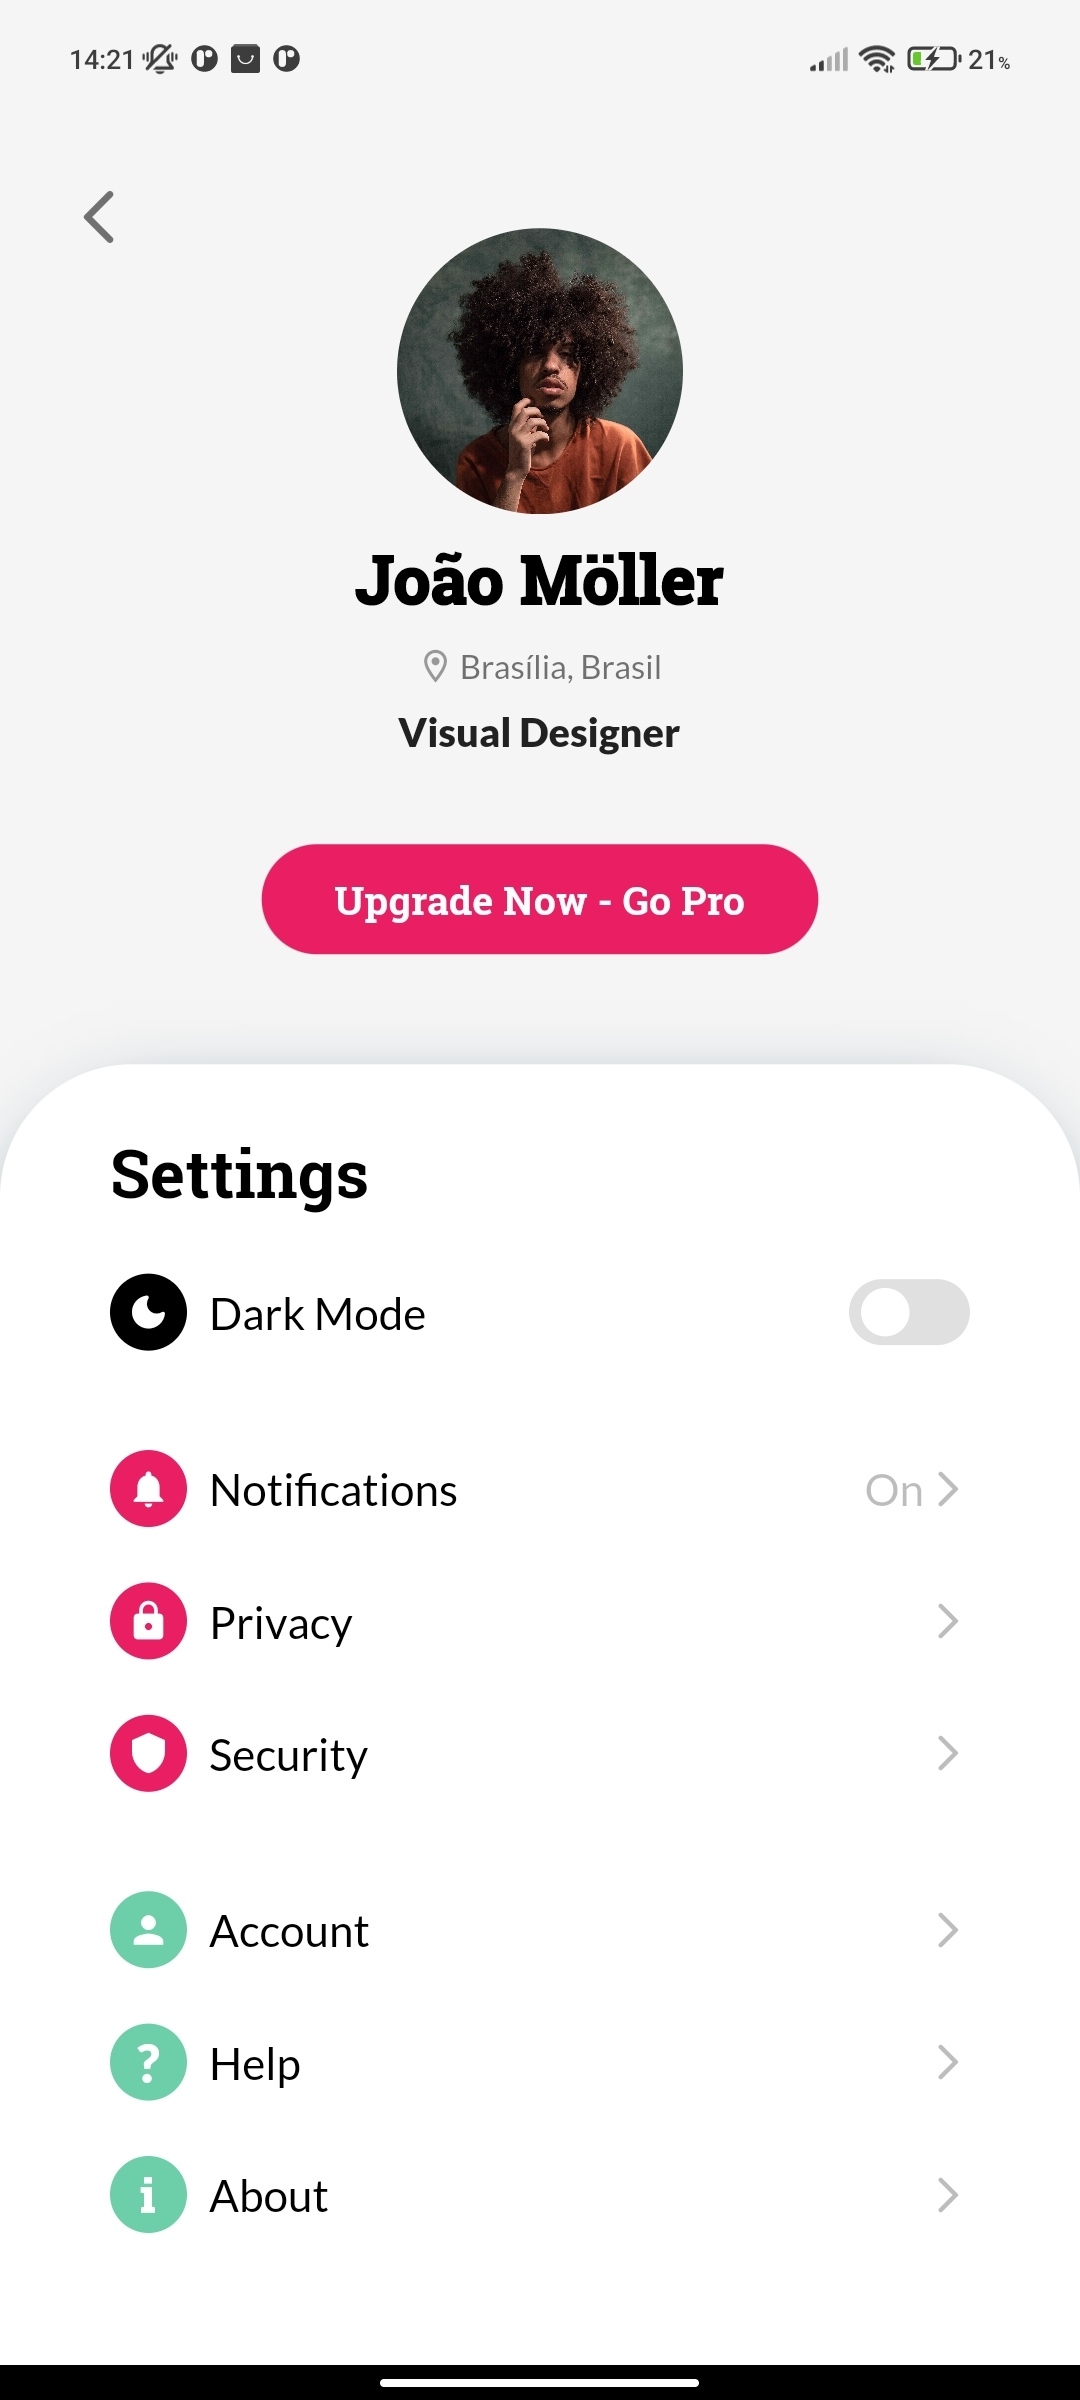
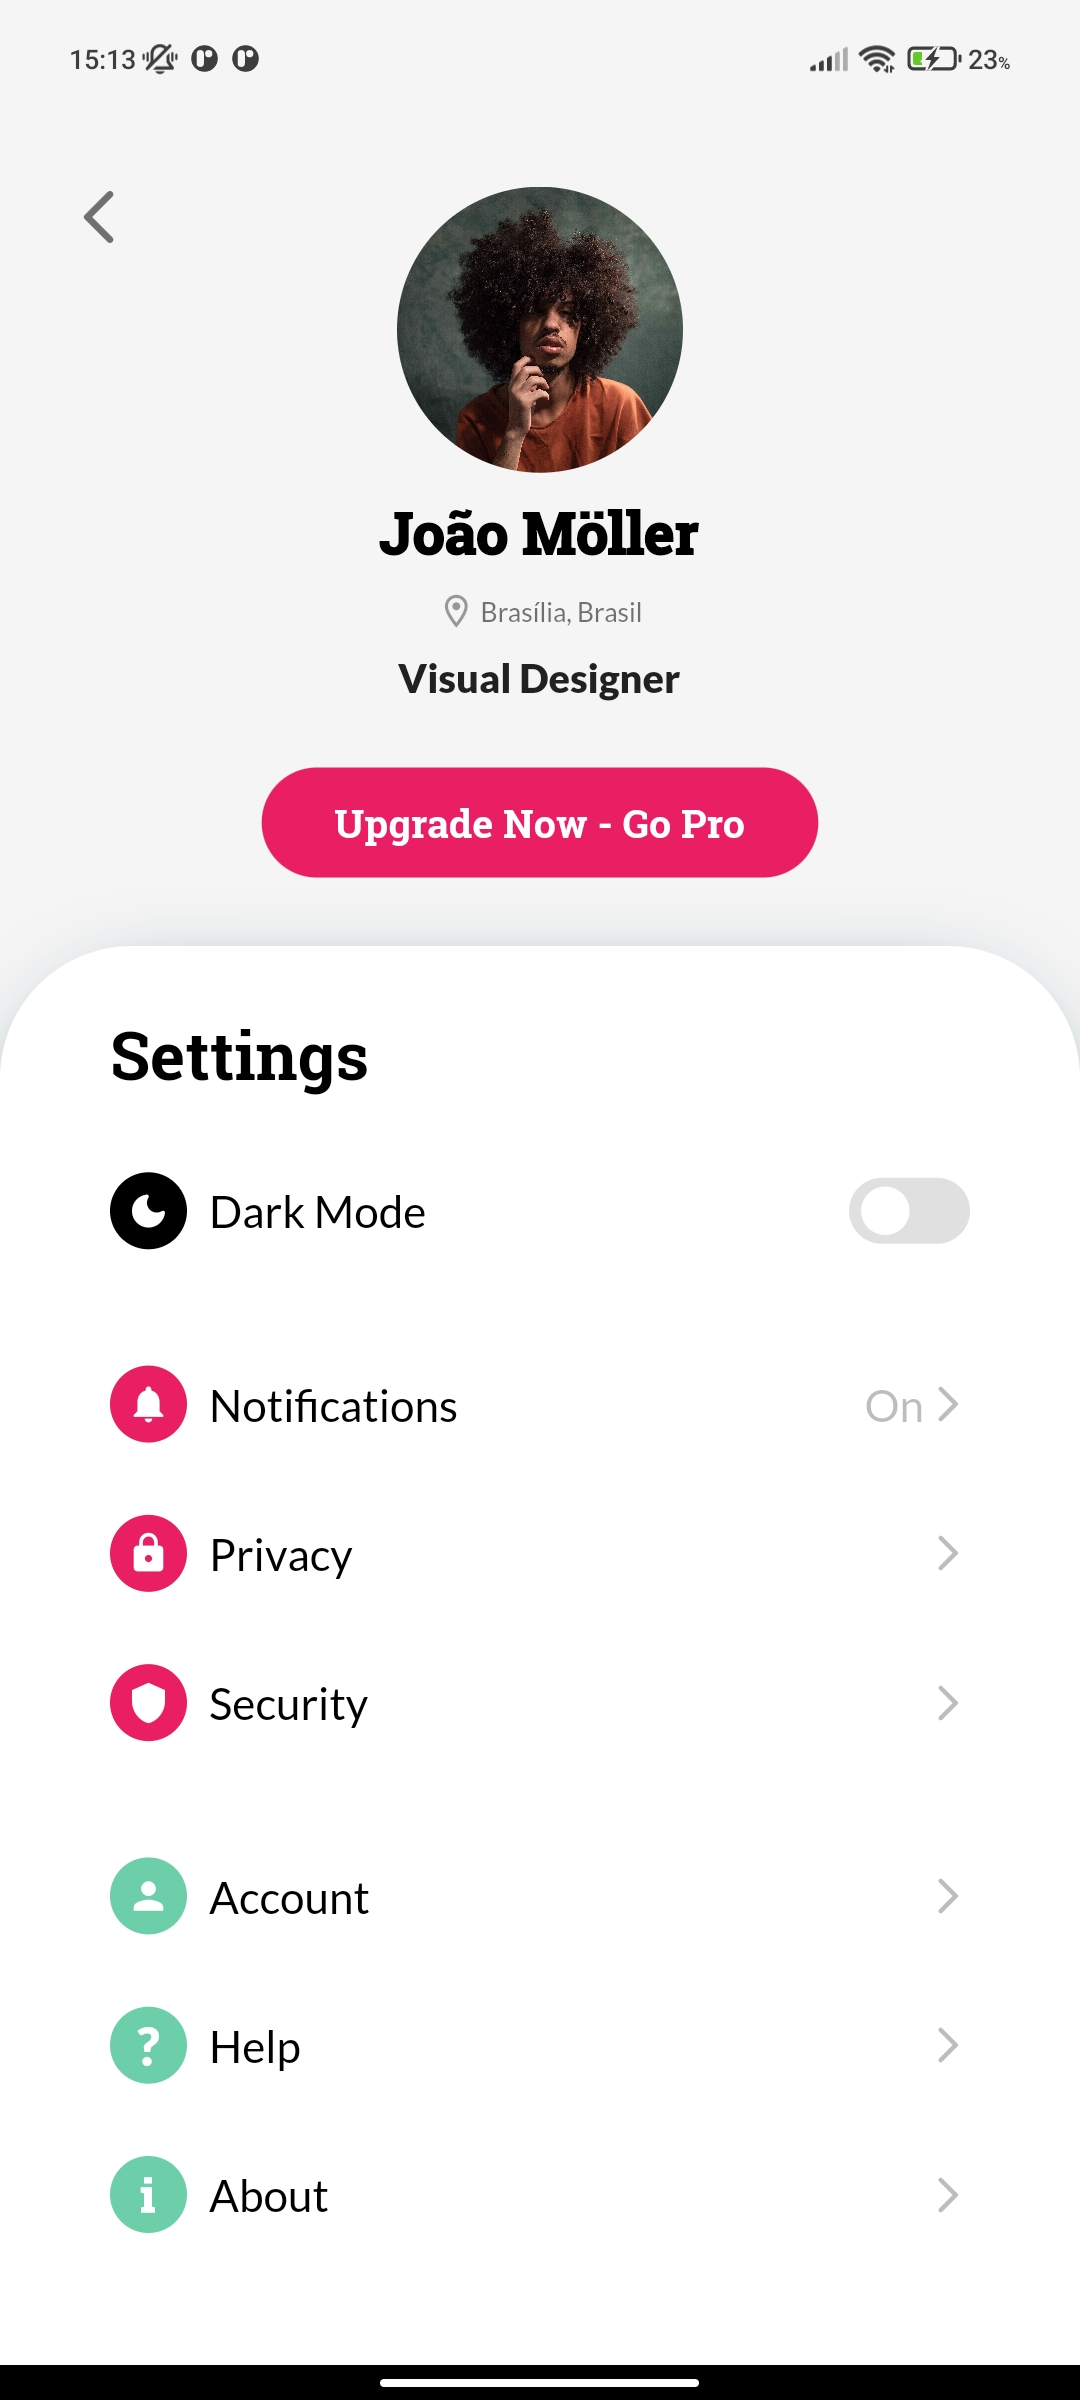
Upload Desafios

diff --git a/desafio1/lib/profile.dart b/desafio1/lib/profile.dart
@@ -25,7 +25,7 @@ class _ProfileState extends State<Profile> {
             Positioned(
               child: Container(
                 color: Colors.transparent,
-                height: MediaQuery.of(context).size.height * 0.40,
+                height: MediaQuery.of(context).size.height * 0.35,
                 width: MediaQuery.of(context).size.width * 1,
                 child: Stack(
                   children: [
@@ -64,7 +64,7 @@ class _ProfileState extends State<Profile> {
                                       textStyle: const TextStyle(
                                           color: Colors.black,
                                           decoration: TextDecoration.none,
-                                          fontSize: 30,
+                                          fontSize: 26,
                                           fontWeight: FontWeight.w900)))
                             ],
                           ),
@@ -85,7 +85,7 @@ class _ProfileState extends State<Profile> {
                                     textStyle: const TextStyle(
                                         color: Colors.black54,
                                         decoration: TextDecoration.none,
-                                        fontSize: 15,
+                                        fontSize: 12,
                                         fontWeight: FontWeight.w500)))
                           ],
                         ),
@@ -108,7 +108,7 @@ class _ProfileState extends State<Profile> {
                           mainAxisAlignment: MainAxisAlignment.center,
                           children: [
                             Padding(
-                              padding: const EdgeInsets.only(top: 40),
+                              padding: const EdgeInsets.only(top: 30),
                               child: TextButton(
                                 style: ButtonStyle(
                                   shape: MaterialStateProperty.all<
@@ -150,7 +150,7 @@ class _ProfileState extends State<Profile> {
             Positioned(
                 bottom: MediaQuery.of(context).size.height * 0.00,
                 child: Container(
-                  height: MediaQuery.of(context).size.height * 0.55,
+                  height: MediaQuery.of(context).size.height * 0.60,
                   width: MediaQuery.of(context).size.width * 1,
                   decoration: const BoxDecoration(
                       color: Colors.white,
